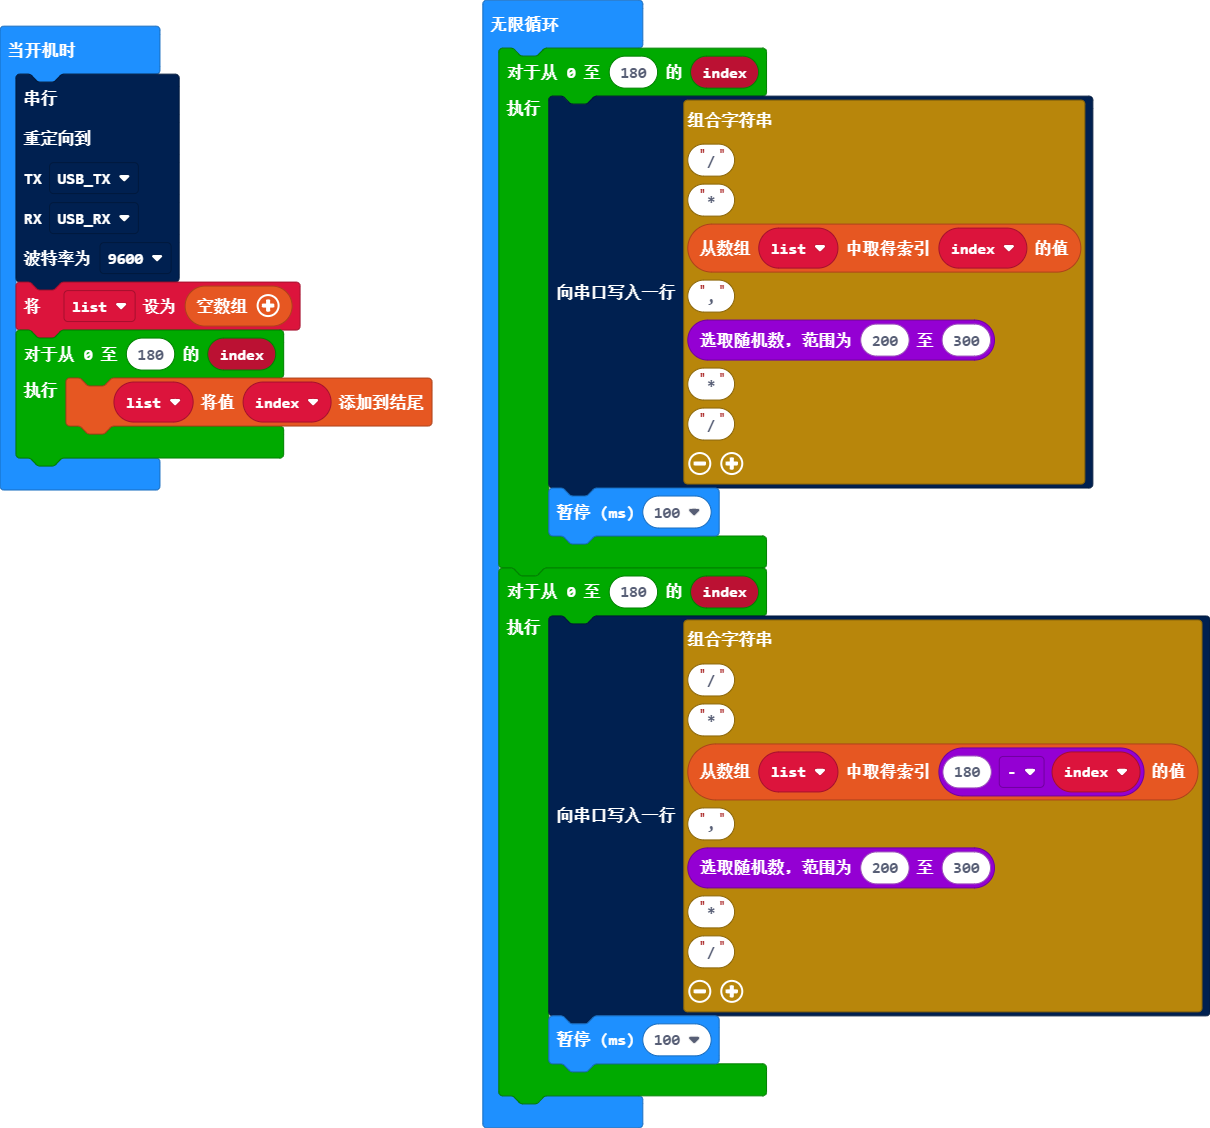
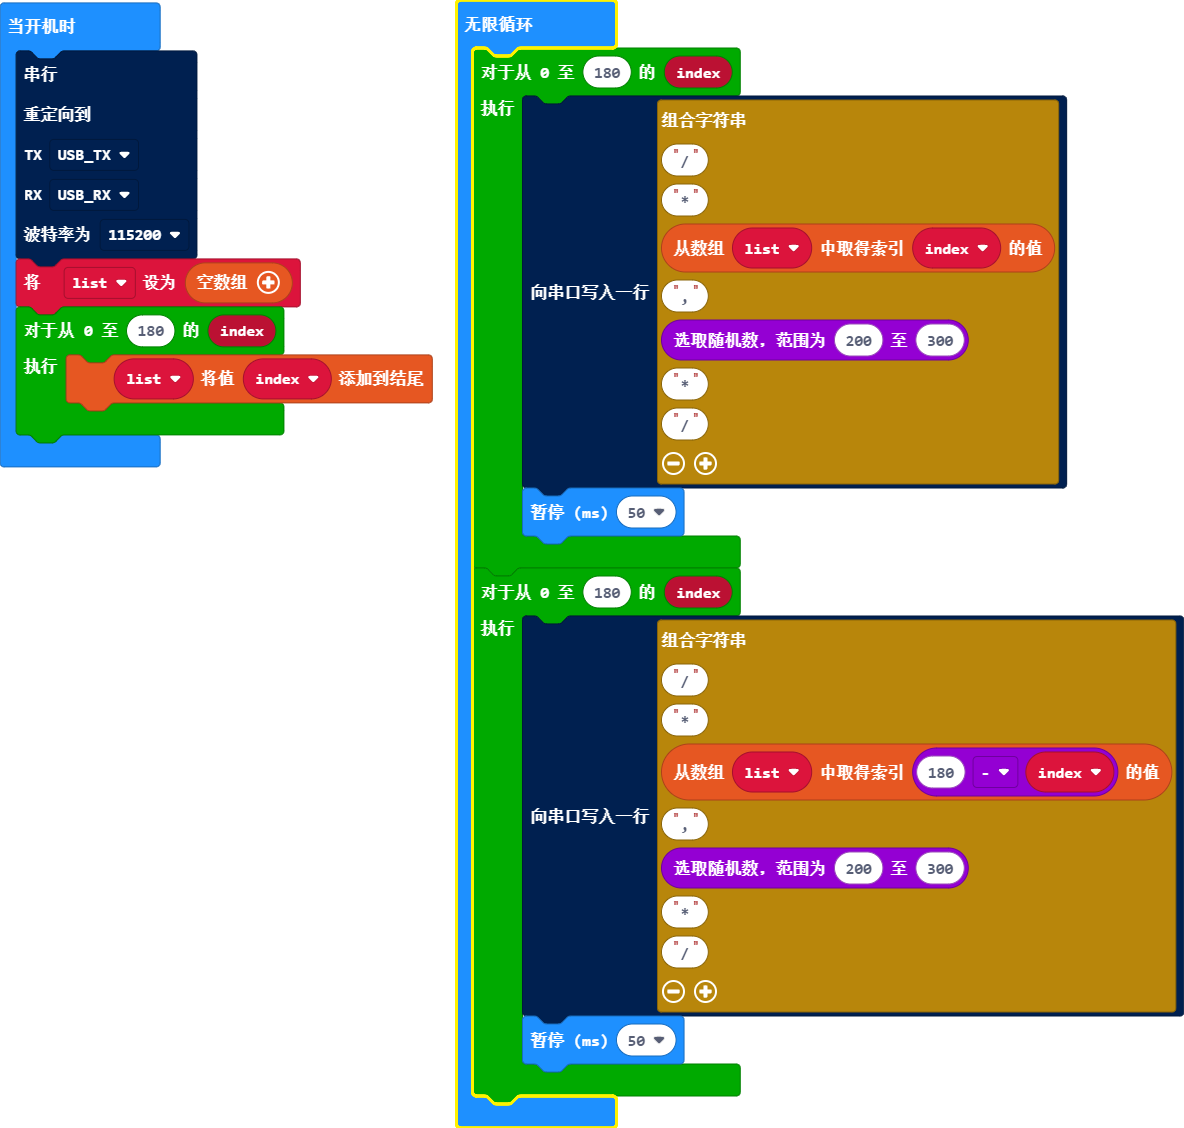
更新 main.blocks, main.ts

Changed region(s): [[0.0, 0.0, 0.9688, 1.0], [0.625, 0.9309, 0.6562, 0.9619]]

diff --git a/main.ts b/main.ts
@@ -1,7 +1,7 @@
 serial.redirect(
 SerialPin.USB_TX,
 SerialPin.USB_RX,
-BaudRate.BaudRate9600
+BaudRate.BaudRate115200
 )
 let list: number[] = []
 for (let index = 0; index <= 180; index++) {
@@ -10,10 +10,10 @@ for (let index = 0; index <= 180; index++) {
 basic.forever(function () {
     for (let index = 0; index <= 180; index++) {
         serial.writeLine("/" + "*" + list[index] + "," + randint(200, 300) + "*" + "/")
-        basic.pause(100)
+        basic.pause(50)
     }
     for (let index = 0; index <= 180; index++) {
         serial.writeLine("/" + "*" + list[180 - index] + "," + randint(200, 300) + "*" + "/")
-        basic.pause(100)
+        basic.pause(50)
     }
 })
